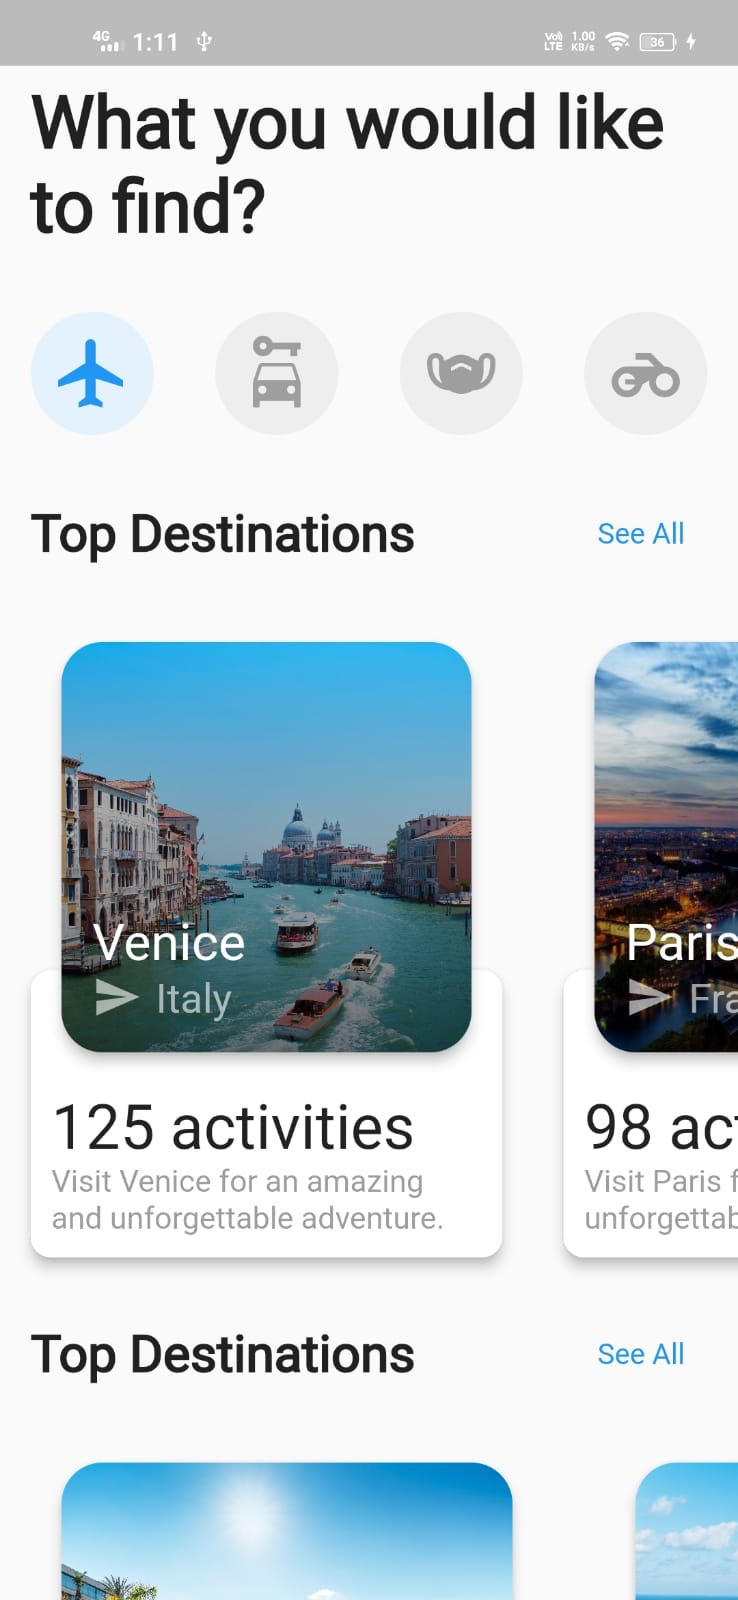
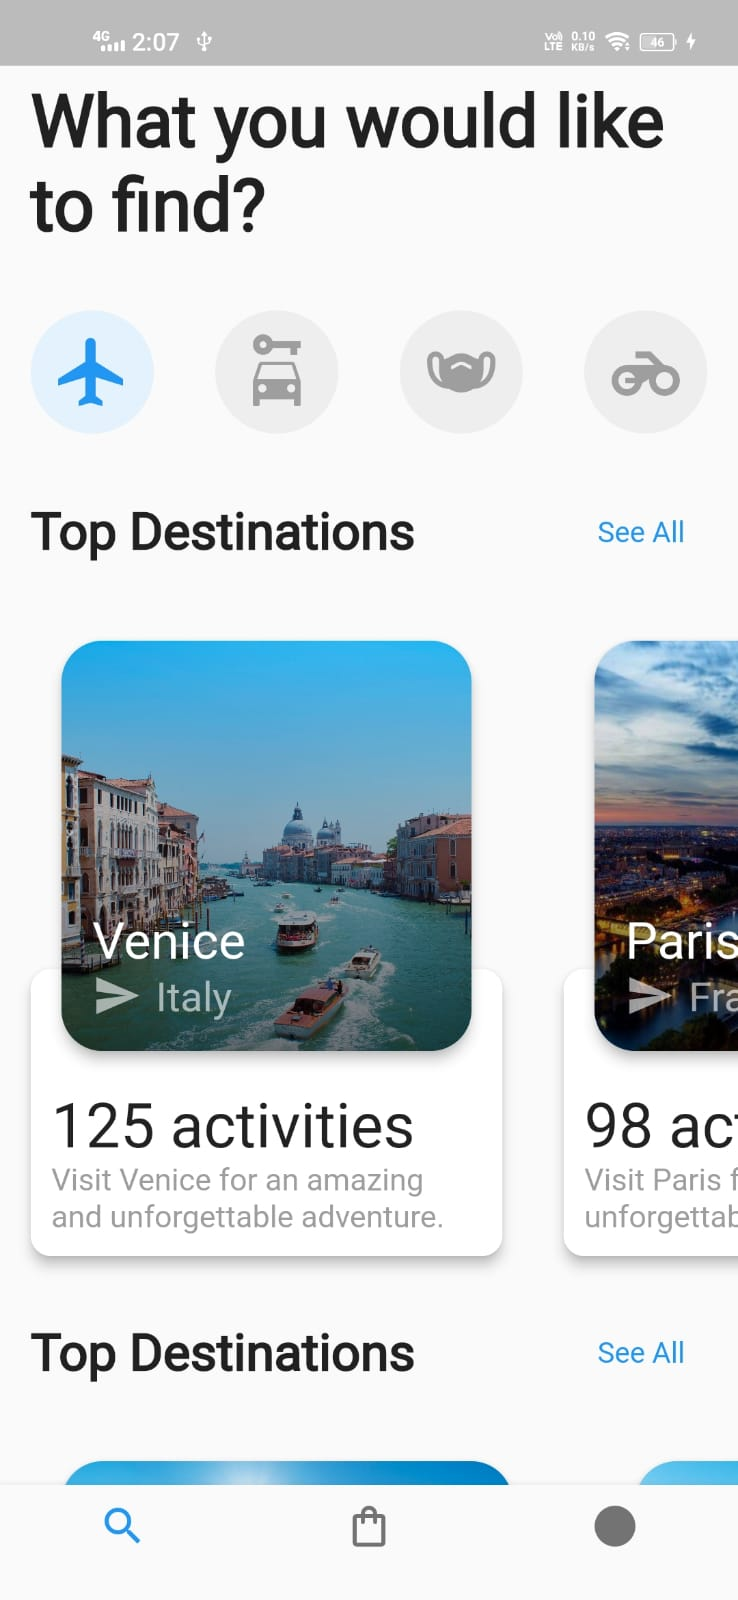
Bottom Nav bar added

diff --git a/lib/screens/home_screen.dart b/lib/screens/home_screen.dart
@@ -1,13 +1,19 @@
 import 'package:flutter/material.dart';
-import 'package:travel/screens/hotel_screen.dart';
 import 'package:travel/widgets/exclusive_hotels.dart';
 
 import '../widgets/header_icons.dart';
 import '../widgets/top_destinations.dart';
 
-class HomeScreen extends StatelessWidget {
+class HomeScreen extends StatefulWidget {
   const HomeScreen({Key? key}) : super(key: key);
 
+  @override
+  State<HomeScreen> createState() => _HomeScreenState();
+}
+
+int _currentIndex = 0;
+
+class _HomeScreenState extends State<HomeScreen> {
   @override
   Widget build(BuildContext context) {
     return Scaffold(
@@ -30,6 +36,28 @@ class HomeScreen extends StatelessWidget {
           const SliverToBoxAdapter(
             child: ExclusiveHotels(),
           )
+        ],
+      ),
+      bottomNavigationBar: BottomNavigationBar(
+        onTap: (value) {
+          setState(() {
+            _currentIndex = value;
+          });
+        },
+        currentIndex: _currentIndex,
+        items: const [
+          BottomNavigationBarItem(
+            label: '',
+            icon: Icon(Icons.search_outlined),
+          ),
+          BottomNavigationBarItem(
+            label: '',
+            icon: Icon(Icons.shopping_bag_outlined),
+          ),
+          BottomNavigationBarItem(
+            label: '',
+            icon: Icon(Icons.circle),
+          ),
         ],
       ),
     );

diff --git a/lib/widgets/top_destinations.dart b/lib/widgets/top_destinations.dart
@@ -93,11 +93,15 @@ class TopDestinations extends StatelessWidget {
                                     elevation: 5,
                                     child: ClipRRect(
                                       borderRadius: BorderRadius.circular(20),
-                                      child: Image.asset(
-                                        height: 200,
-                                        width: 200,
-                                        destinations[index].imageUrl!,
-                                        fit: BoxFit.cover,
+                                      child: Hero(
+                                        tag: 'heroTag'
+                                            '${destinations[index].city}',
+                                        child: Image.asset(
+                                          height: 200,
+                                          width: 200,
+                                          destinations[index].imageUrl!,
+                                          fit: BoxFit.cover,
+                                        ),
                                       ),
                                     ),
                                   ),

diff --git a/lib/screens/hotel_screen.dart b/lib/screens/hotel_screen.dart
@@ -41,10 +41,13 @@ class HotelScreen extends StatelessWidget {
           Stack(
             alignment: Alignment.bottomLeft,
             children: [
-              Image.asset(
-                height: 350,
-                destination.imageUrl!,
-                fit: BoxFit.cover,
+              Hero(
+                tag: 'heroTag' '${destination.city}',
+                child: Image.asset(
+                  height: 350,
+                  destination.imageUrl!,
+                  fit: BoxFit.cover,
+                ),
               ),
               Container(
                 height: 350,

diff --git a/lib/main.dart b/lib/main.dart
@@ -1,5 +1,4 @@
 import 'package:flutter/material.dart';
-
 import 'screens/home_screen.dart';
 
 void main() {
